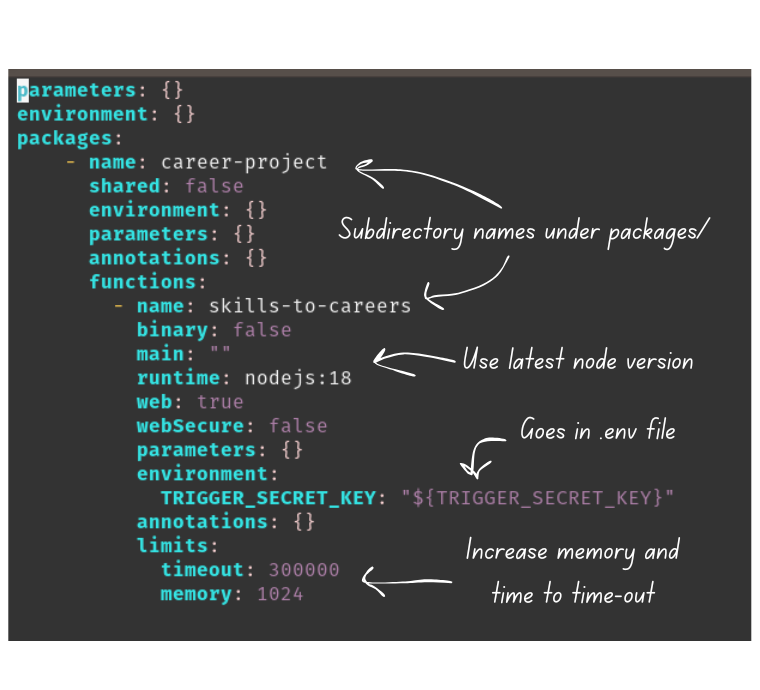
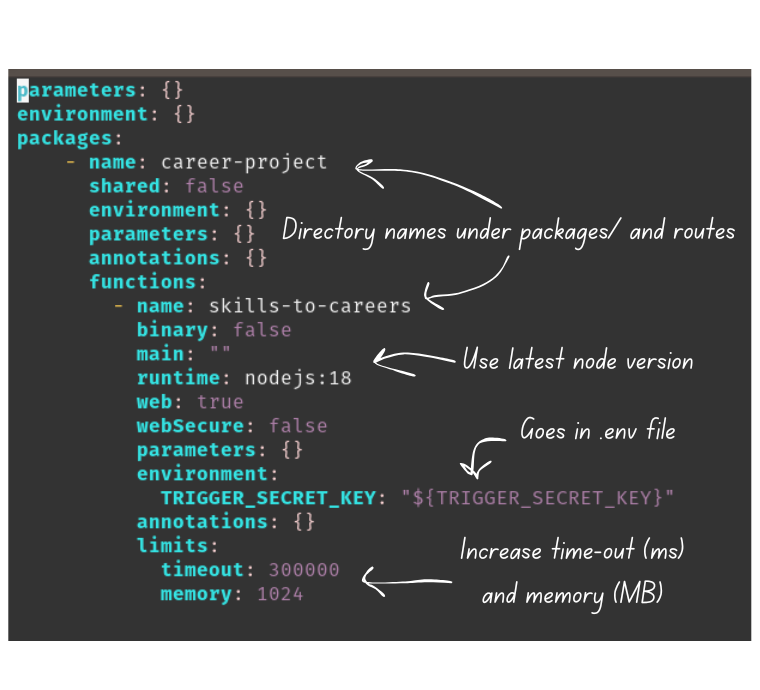
jrr

Changed region(s): [[0.3632, 0.3043, 0.9684, 0.3652], [0.6053, 0.7913, 0.9079, 0.8826]]

diff --git a/content/posts/how-to-setup-trigger-on-digital-ocean/index.md b/content/posts/how-to-setup-trigger-on-digital-ocean/index.md
@@ -1,5 +1,5 @@
 ---
-title: How to use Trigger.dev using Digital Ocean serverless functions.
+title: How to use Trigger.dev usingDigitalOcean serverless functions.
 author: Joey Reed
 date: 2024-12-20
 draft: true
@@ -81,7 +81,7 @@ Like their website suggests, you're getting a serverless deployment solution whe
 They've figured out a cost-effective way to containerize and execute long-running tasks on the web, without worrying about timeouts.  Time-consuming calculations,
 multiple API calls, long-delays, and complex scheduling can all be expressed in code.  This opens up all sorts of possibilities that would be extremely difficult to implement in other serverless computing options.  No Function as a Service (FaaS) that I know of, will successfully run for longer than 15 minutes. Here's a list of popular options with their run-time limits:
 
-* Digital Ocean Function: [15 minutes](https://docs.digitalocean.com/products/functions/details/limits/)
+* DigitalOcean Function: [15 minutes](https://docs.digitalocean.com/products/functions/details/limits/)
 * Supabase Edge Functions: [150s-400s](https://supabase.com/docs/guides/functions/limits#runtime-limits)
 * Vercel Functions: [15 minutes](https://vercel.com/docs/functions/runtimes#max-duration)
 * AWS Lambda Functions: [15 minutes](https://docs.aws.amazon.com/lambda/latest/dg/gettingstarted-limits.html)
@@ -119,13 +119,13 @@ After some research, here's what I came up with:
 ![carrer-advice-workflow](./figures/career-advice-flow.png)
   
 Changing the state of the dropdown from "Waiting" to "Get Jobs" triggers a Google Apps Script.  The script
-takes the data from that row and sends it to a Digital Ocean Serverless Function that's waiting for requests at a 
-particular URL.  The Digital Ocean Function does almost no work.  It's only purpose is to trigger a deployed Trigger.dev 
+takes the data from that row and sends it to a DigitalOcean Function that's waiting for requests at a 
+particular URL.  The DigitalOcean Function does almost no work.  It's only purpose is to trigger a deployed Trigger.dev 
 task with the spreadsheet data.  Think of it as a webhook.  Inside the task, the payload is destructured and integrated into
 an OpenAI chat prompt.  Once the model's response is returned, the task uses the Google Sheets API to update the spreadsheet
 with the career advice.
 
-Yes, this workflow is simple enough that the whole thing could be put in the Digital Ocean function.  But if I want to 
+Yes, this workflow is simple enough that the whole thing could be put in the DigitalOcean function.  But if I want to 
 extend the capabilities of this system later on, I'd rather get the right tools in place now.     
 
 ## Google Apps Scripts
@@ -142,21 +142,31 @@ that requires authorization.
 
 Remember, we want to run the script when the "Trigger" dropdown transitions from "Waiting" to "Get Jobs.  This is a job for the "On Edit" trigger.  
 
-The last thing we need to do is find a way to store credentials without revealing them in the Apps Script.  Once we set it up, we'll need to store the URL and authorization token for our Digital Ocean function.  The simplest way to do this is adding the key and value as a script property, and retreve the value in the script when you needed.  Very similar to creating an `.env` file.  Script properties are accessible under the "Project Settings" tab. 
+The last thing we need to do is find a way to store credentials without revealing them in the Apps Script.  Once we set it up, we'll need to store the URL and authorization token for our DigitalOcean function.  The simplest way to do this is adding the key and value as a script property, and retreve the value in the script when you needed.  Very similar to creating an `.env` file.  Script properties are accessible under the "Project Settings" tab. 
 
-## Digital Ocean Serverless Functions
+## DigitalOcean Functions
 
-The Trigger.dev website covers several ways of triggering tasks from web frameworks and serverless functions.  They don't discuss using Digital Ocean's Serverless Function product, so I decided to try that.  Maybe someone using Digital Ocean will find it useful.  
+The Trigger.dev website covers several ways of triggering tasks from web frameworks and different serverless functions.  They don't discuss usingDigitalOcean's Serverless Function product, so I decided to try that.  Maybe someone using DigitalOcean will find it useful.  
 
-We'll do everything with doctl, Digital Ocean's command line tool.  Instructions, including links to the official documentation are in my GitHub repository.    
+We'll do everything with doctl, DigitalOcean's command line tool.  Instructions, including links to the official documentation are in my GitHub repository.
 
-When you initialize a serverless function wih doctl, you get a configuration file, 3 nested folders, and a single javascript function.    
+When you initialize a serverless function project with doctl you get a `project.yml` configuration file and a `packages/` directory.  The `packages/` directory contains everything you need for one "package" and one serverless function.  If you want more packages and/or more functions, just add more directories.  Chances are, you'll want to change the default package and function names.  No problem, just make sure that the new directory names match the package and function names in the `package.yml` file.  Otherwise deployment will fail.  
 
-With the setup out of the way, we can start customizing our Digital Ocean serverless project.  
+Packages and functions can be configured in the `project.yml` file.  Here's the `project.yml` file for my project:
 
-The `project.yml` file in the 
+![DigitalOcean project.yaml](./figures/digital-ocean-yaml.png)
 
-![digital ocean project.yaml](./figures/digital-ocean-yaml.png)
+It contains one package called `career-project` and one function in that package called `skills-to-careers`.  When I started working
+on this, they only supported node versions 14 and 18.  To minimize compatibility issues, I decided to go with node version 18. 
+
+To be on the safe side, I maxed out the memory the function can use (1GB) and increased the timeout to 5 minutes.  Allocating this much memory to a function that does almost no work might seem a bit extreme.  For whatever reason though, during testing, executions failed because the function ran out of memory.  At least that's what the logs said.  Bumping it up fixed the issue.                        
+
+I also added my Trigger.dev credentials to the function's environment section as a "template variable".  That way I can add `project.yml` to my git repository without sharing API credentials.  To get this to work, open up a `.env` file at the top-level of the project and add 
+
+```sh
+TRIGGER_SECRET_KEY=<add your secret key here>
+```
+Just make sure that you don't add `.env` to version control!  I'll explain how to get your `TRIGGER_SECRET_KEY` in the next section.
 
 
 ## Setting up Trigger.dev project
@@ -188,7 +198,7 @@ npx trigger.dev@latest init --javascript
 
 Google Stuff:
 1. Installable trigger in Google Appscript to trigger DO function
-2. Store digital ocean auth info in "Script Properties" of AppScript DashBoard.
+2. StoreDigitalOcean auth info in "Script Properties" of AppScript DashBoard.
 3. Google Cloud project using API to communicate back to spreadsheet.  Need to setup a project, enable Google Sheets API in that project.  Use Service Project style authorization with a JWT (JSON Web token)
 
 
